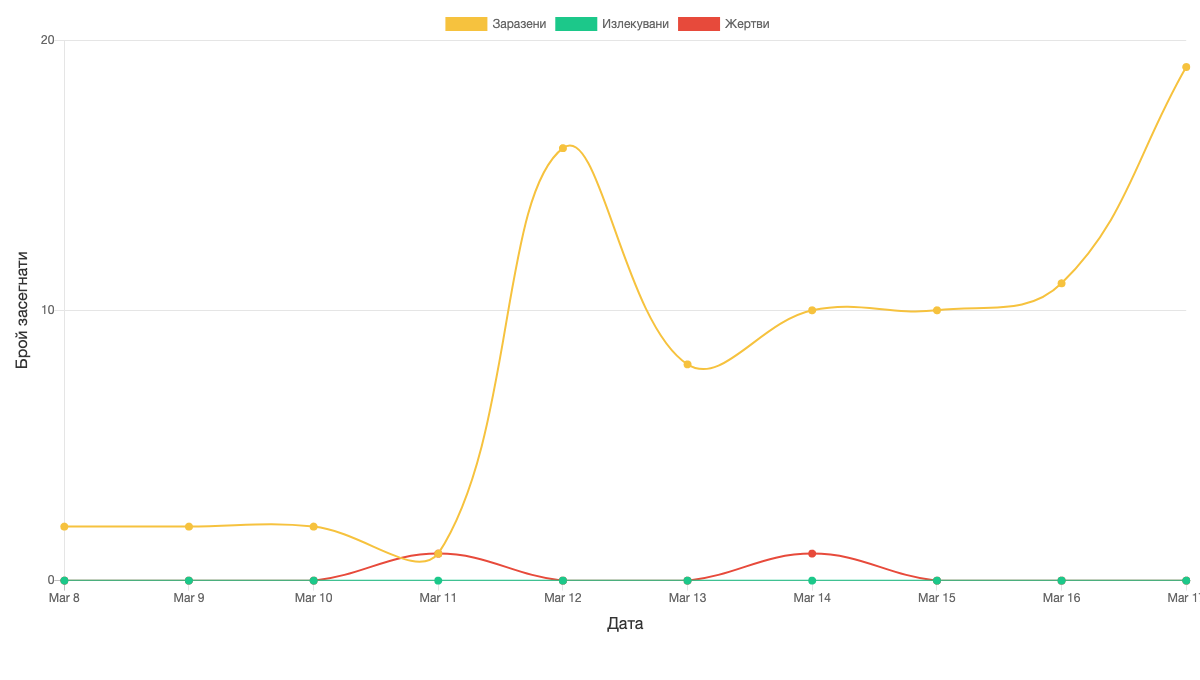
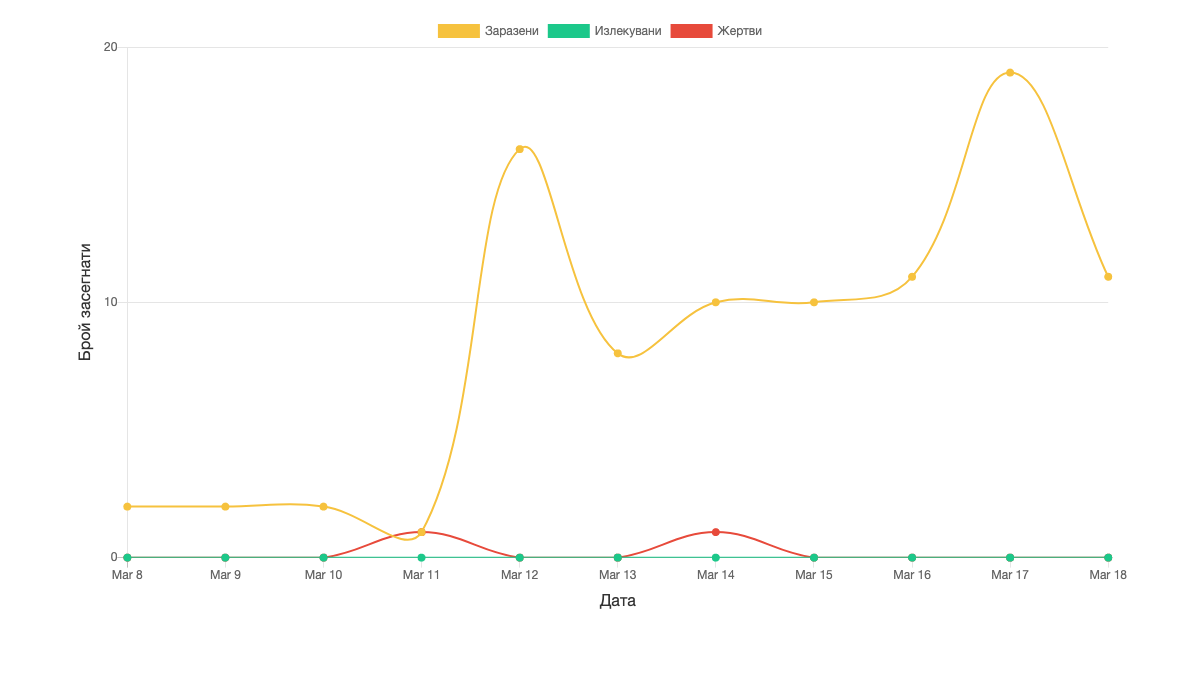
Updated data for 18.03.

diff --git a/components/OpenGraph/CasesLineChartImage.js b/components/OpenGraph/CasesLineChartImage.js
@@ -1,4 +1,5 @@
 import React from 'react';
+import { Row, Col } from 'react-bootstrap';
 import CasesLineChart from '../CasesLineChart';
 import DateCasesDataset from '../../db/DateCasesDataset.json';
 
@@ -14,17 +15,27 @@ const CasesLineChartImage = () => {
   ];
 
   return (
-    <div className="map-container align-content-center">
-      <CasesLineChart data={lineChartData} width="1200px" height="630px" />
-      <style jsx>
+    <Row className="map-container align-items-center" noGutters>
+      <Col>
+        <div className="mx-auto" style={{ width: '1059px', height: '600px' }}>
+          <CasesLineChart data={lineChartData} width="1059px" height="600px" />
+        </div>
+      </Col>
+      <link rel="stylesheet" type="text/css" href="/static/css/sb-admin-2.min.css" />
+      <style jsx global>
         {`
+          body {
+            margin: 0;
+            padding: 0;
+          }
+
           .map-container {
             width: 1200px;
             height: 630px;
           }
         `}
       </style>
-    </div>
+    </Row>
   );
 };
 
